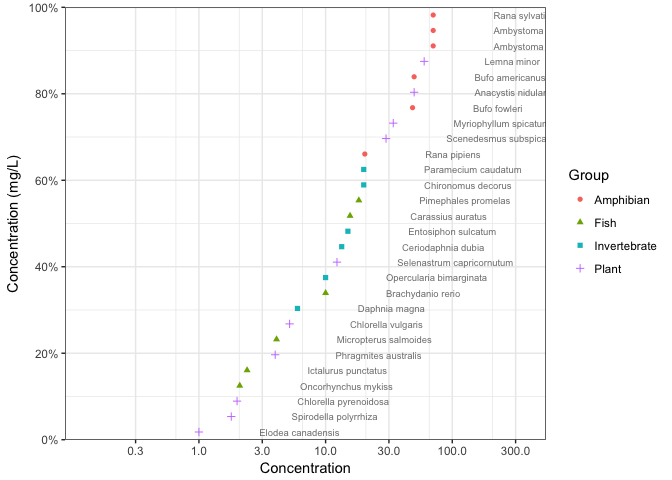
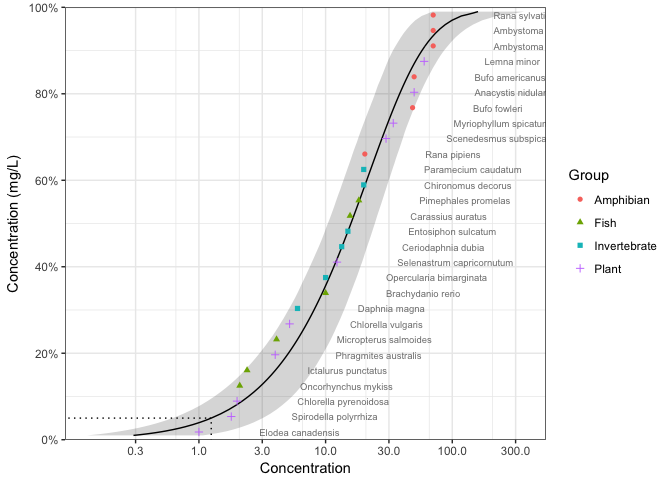
geom_hcintersect and fix percent

Changed region(s): [[0.1562, 0.0, 0.75, 0.9062]]

diff --git a/README.md b/README.md
@@ -84,9 +84,6 @@ and plot using the `ggplot2` generic `autoplot`
 ``` r
 theme_set(theme_bw()) # set plotting theme
 autoplot(boron_dists)
-#> Warning: Removed 588 rows containing missing values (geom_path).
-#> geom_path: Each group consists of only one observation. Do you need to
-#> adjust the group aesthetic?
 ```
 
 ![](tools/README-unnamed-chunk-8-1.png)<!-- -->
@@ -100,7 +97,7 @@ ssd_gof(boron_dists)
 #>   <chr>    <dbl>  <dbl>  <dbl> <dbl> <dbl> <dbl>
 #> 1 lnorm    0.507 0.107  0.0703   239   240   242
 #> 2 llog     0.487 0.0993 0.0595   241   241   244
-#> 3 gompertz 0.602 0.120  0.0823   238   238   240
+#> 3 gompertz 0.602 0.120  0.0822   238   238   240
 #> 4 lgumbel  0.829 0.158  0.134    244   245   247
 #> 5 gamma    0.441 0.117  0.0555   238   238   240
 #> 6 weibull  0.435 0.117  0.0543   238   238   240
@@ -110,20 +107,10 @@ and the model-averaged 5% hazard concentration estimated using `ssd_hc`
 
 ``` r
 ssd_hc(boron_dists)
-#> # A tibble: 99 x 5
-#>    percent   est    se   lcl   ucl
-#>      <int> <dbl> <dbl> <dbl> <dbl>
-#>  1       1 0.304 0.344 0.127  1.09
-#>  2       2 0.544 0.468 0.239  1.70
-#>  3       3 0.780 0.570 0.355  2.24
-#>  4       4 1.01  0.660 0.478  2.74
-#>  5       5 1.25  0.744 0.606  3.21
-#>  6       6 1.49  0.823 0.736  3.68
-#>  7       7 1.73  0.899 0.871  4.16
-#>  8       8 1.97  0.972 1.01   4.61
-#>  9       9 2.21  1.04  1.15   5.06
-#> 10      10 2.46  1.11  1.30   5.51
-#> # ... with 89 more rows
+#> # A tibble: 1 x 5
+#>   percent   est    se   lcl   ucl
+#>     <int> <dbl> <dbl> <dbl> <dbl>
+#> 1       5  1.25 0.729 0.599  3.25
 ```
 
 Model-averaged predictions complete with confidence intervals can be
@@ -139,9 +126,6 @@ and plotted together with the original data using
 ``` r
 ssd_plot(boron_data, boron_pred, shape = "Group", color = "Group", label = "Species",
          ylab = "Concentration (mg/L)")
-#> Warning: Removed 98 rows containing missing values (geom_path).
-#> geom_path: Each group consists of only one observation. Do you need to
-#> adjust the group aesthetic?
 ```
 
 ![](tools/README-unnamed-chunk-12-1.png)<!-- -->
